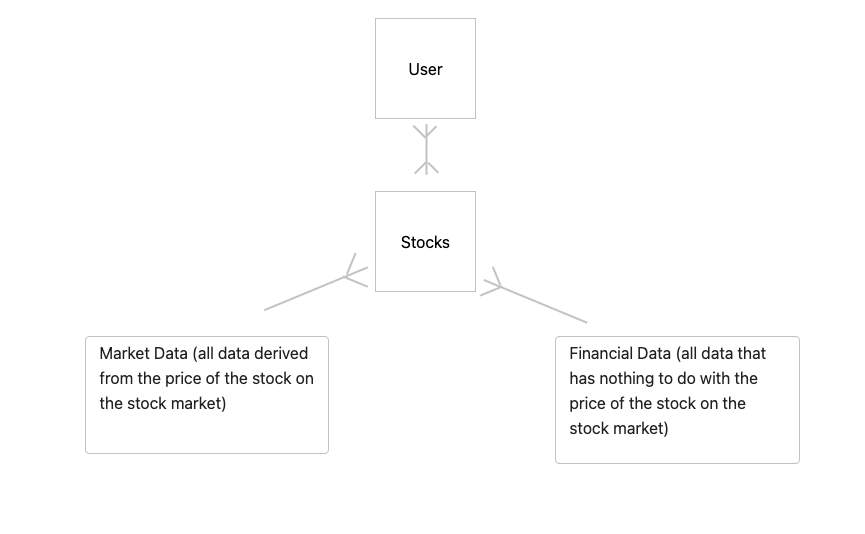
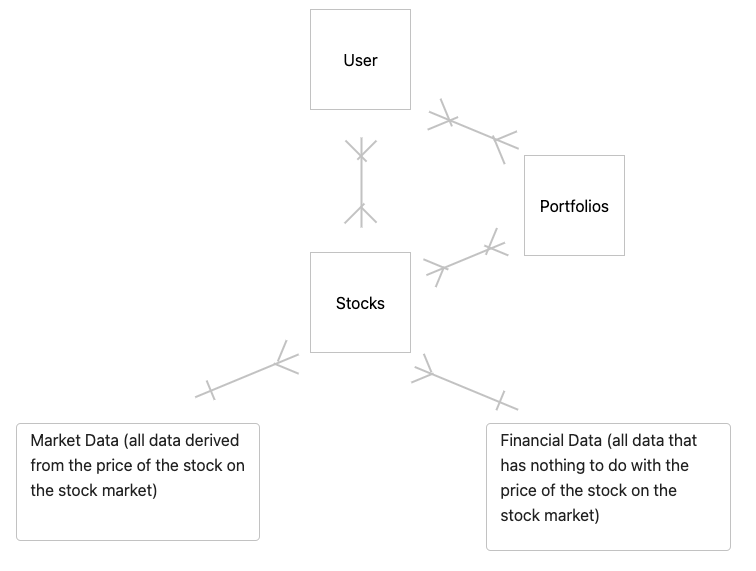
Updated planning

diff --git a/planning/planning.md b/planning/planning.md
@@ -62,6 +62,9 @@
                     - Every CAGR column will be color coordinated (Green if > 10%, Yellow-Green if 7 to 10%, Yellow if 4 to 7%, and Red if < 4% since a company growing at less than that should be considered a risky investment)
                     - Some rows may have data like company expenses be negative which is totally ok, don't know if I want to color them red yet since I don't want anyone to think "danger" just because a company has expenses
                 ![](/planning/wireframes/show-page.png)
+    - My Portfolios
+        - Looks like the my-stocks page just without the logo present on each individual stock on my-stocks page
+        ![](/planning/wireframes/my-portfolios.png)
     - Search any stock
         - Will show a search bar upon navigation to page (a form) to enter any company on the stock market's name or ticker (like Apple's ticker is AAPL)
             - STRETCH GOAL: search bar will suggest a stock's ticker and name based on every character a user inputs into the form input
@@ -81,3 +84,51 @@
 
 ## Entity Relationship Diagram
 ![](/planning/wireframes/erd.png)
+
+## User Stories
+
+1. User navigates to our-way page to see how we view stocks
+2. User uses menu situated inside of side-bar on left to get to most pages
+3. User can navigate to portfolio show page to add a stock to a portfolio
+4. User can navigate to portfolio show page to remove a stock from a portfolio
+5. User can view into on an individual stock to check last stock price
+6. User can view table of company's financial records to evaluate company
+7. User can backtest an entire portfolio to see how it would've done in the past had they bought it sooner
+8. User can see the market capitalization of any stock to see how much it would cost to buy the whole company
+9. User can educate themselves on how to generally value a company by reading our-way page
+10. User can make multiple portfolios to backtest different groups of stocks
+11. User can view a stock's cash flow ratios to compare two stocks to each other to see which one is more valuable at the moment
+12. User can sign up and log in to pick up their backtesting where they left off in the previous session
+13. User doesn't have to log in and can just view metrics on any stock on the market
+14. User can delete any stock that is no longer listed on the market
+15. User can see a company's profits on any given year in the last decade to evaluate a company's earnings growth over time
+
+## Route Table
+
+|   NAME   |     PATH       |   HTTP VERB     |            PURPOSE                   |
+|----------|----------------|-----------------|--------------------------------------| 
+| Index    | /title/our-way      |       GET       | Displays our-way page           |
+
+| New      | /title/my-portfolios/new|       GET       | Shows form for new portfolio creation|
+
+| Show     | /title/my-portfolios|       GET       | Shows my portfolios             |
+
+| Show     | /title/my-stocks    |     GET         | Shows my stocks                 |
+
+| Show     | /title/my-portfolios/:id|       GET        | Shows one portfolio from my-portfolios|
+
+| Show     | /title/my-stocks/:id|       GET       | Shows one stock from my-stocks or from an individual portfolio|
+
+| Show     | /title/backtesting|       GET         | Shows backtesting page          |
+
+| Edit     | /title/my-portfolios/:id/edit |       GET        | Shows edit page for one portfolio where you can add or delete stocks from a portfolio|
+
+| Create   | /title/my-stocks    |      POST       | Adds a new stock to the my-stocks page from the search-stocks page|
+
+| Create   | /title/my-portfolios|      POST       | Adds a new portfolio to the my-portfolios page from the my-portfolios/new page|
+
+| Destroy  | /title/my-portfolios/:id|      DELETE     | Deletes an entire portfolio|
+
+| Destroy  | /title/my-stocks/:id      DELETE      | Deletes a stock from my-stocks|
+
+| Update   | /title/my-portfolios/:id|      PUT        | Adds or removes a stock from a single portfolio|
